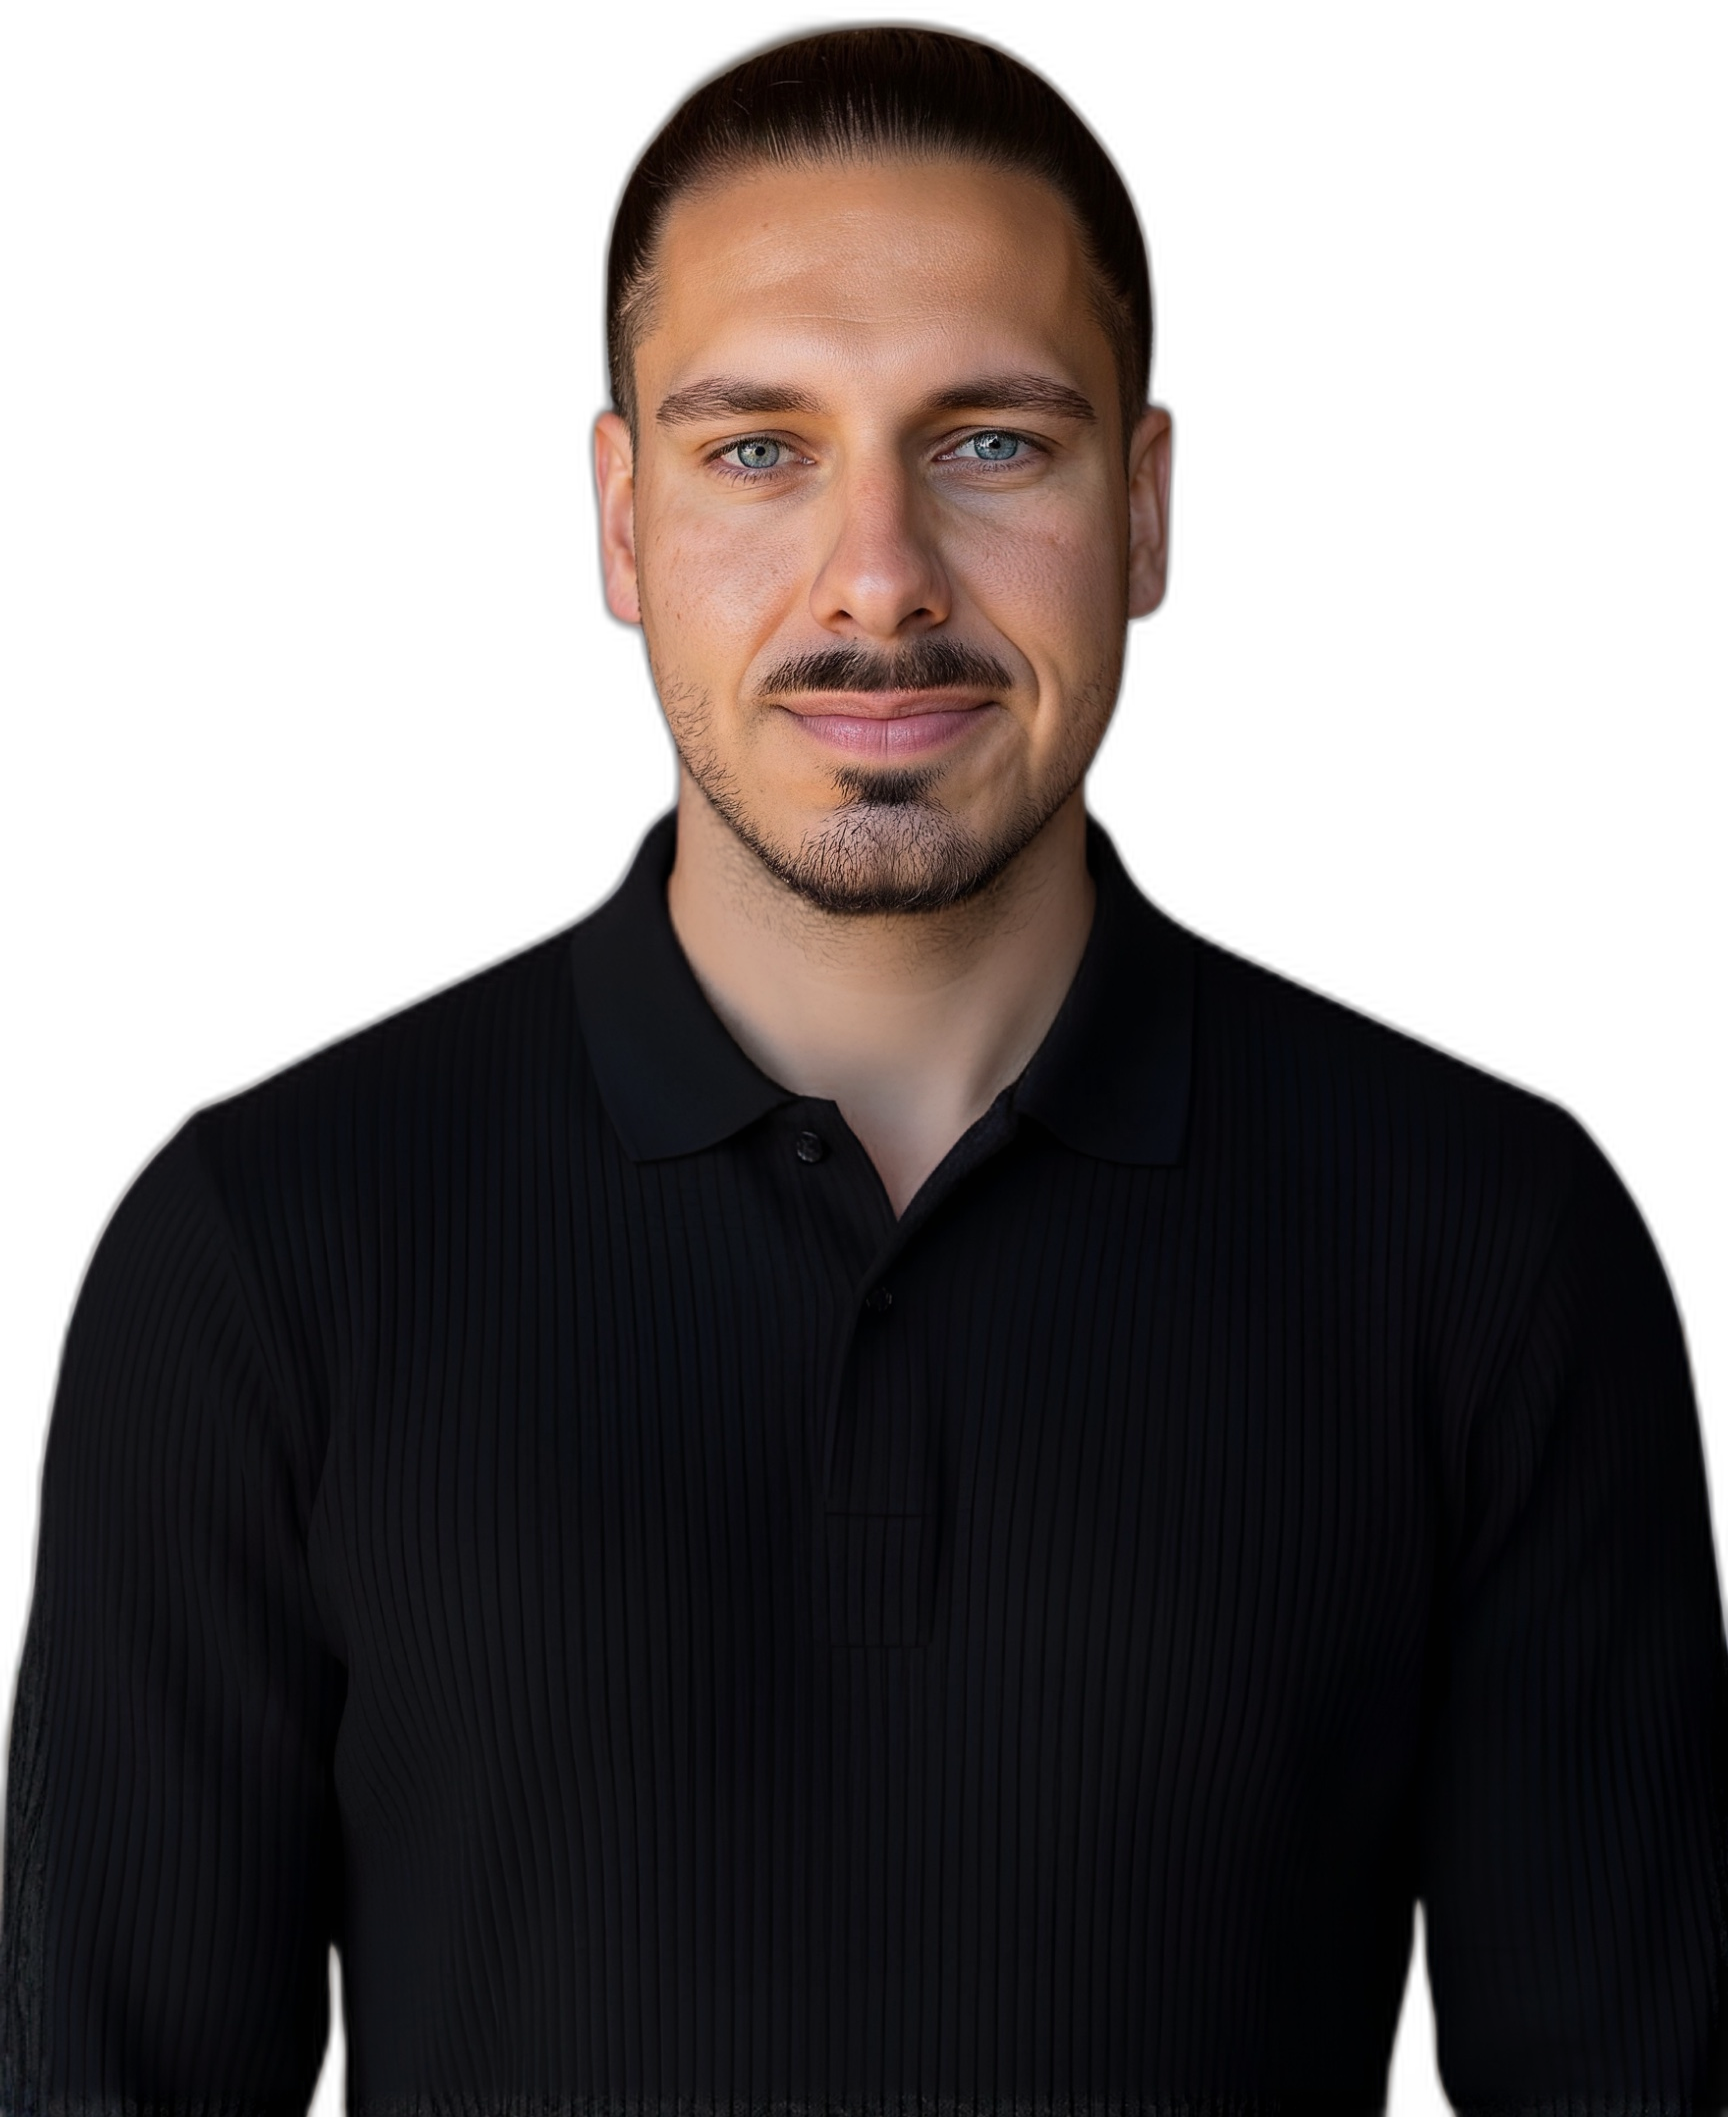
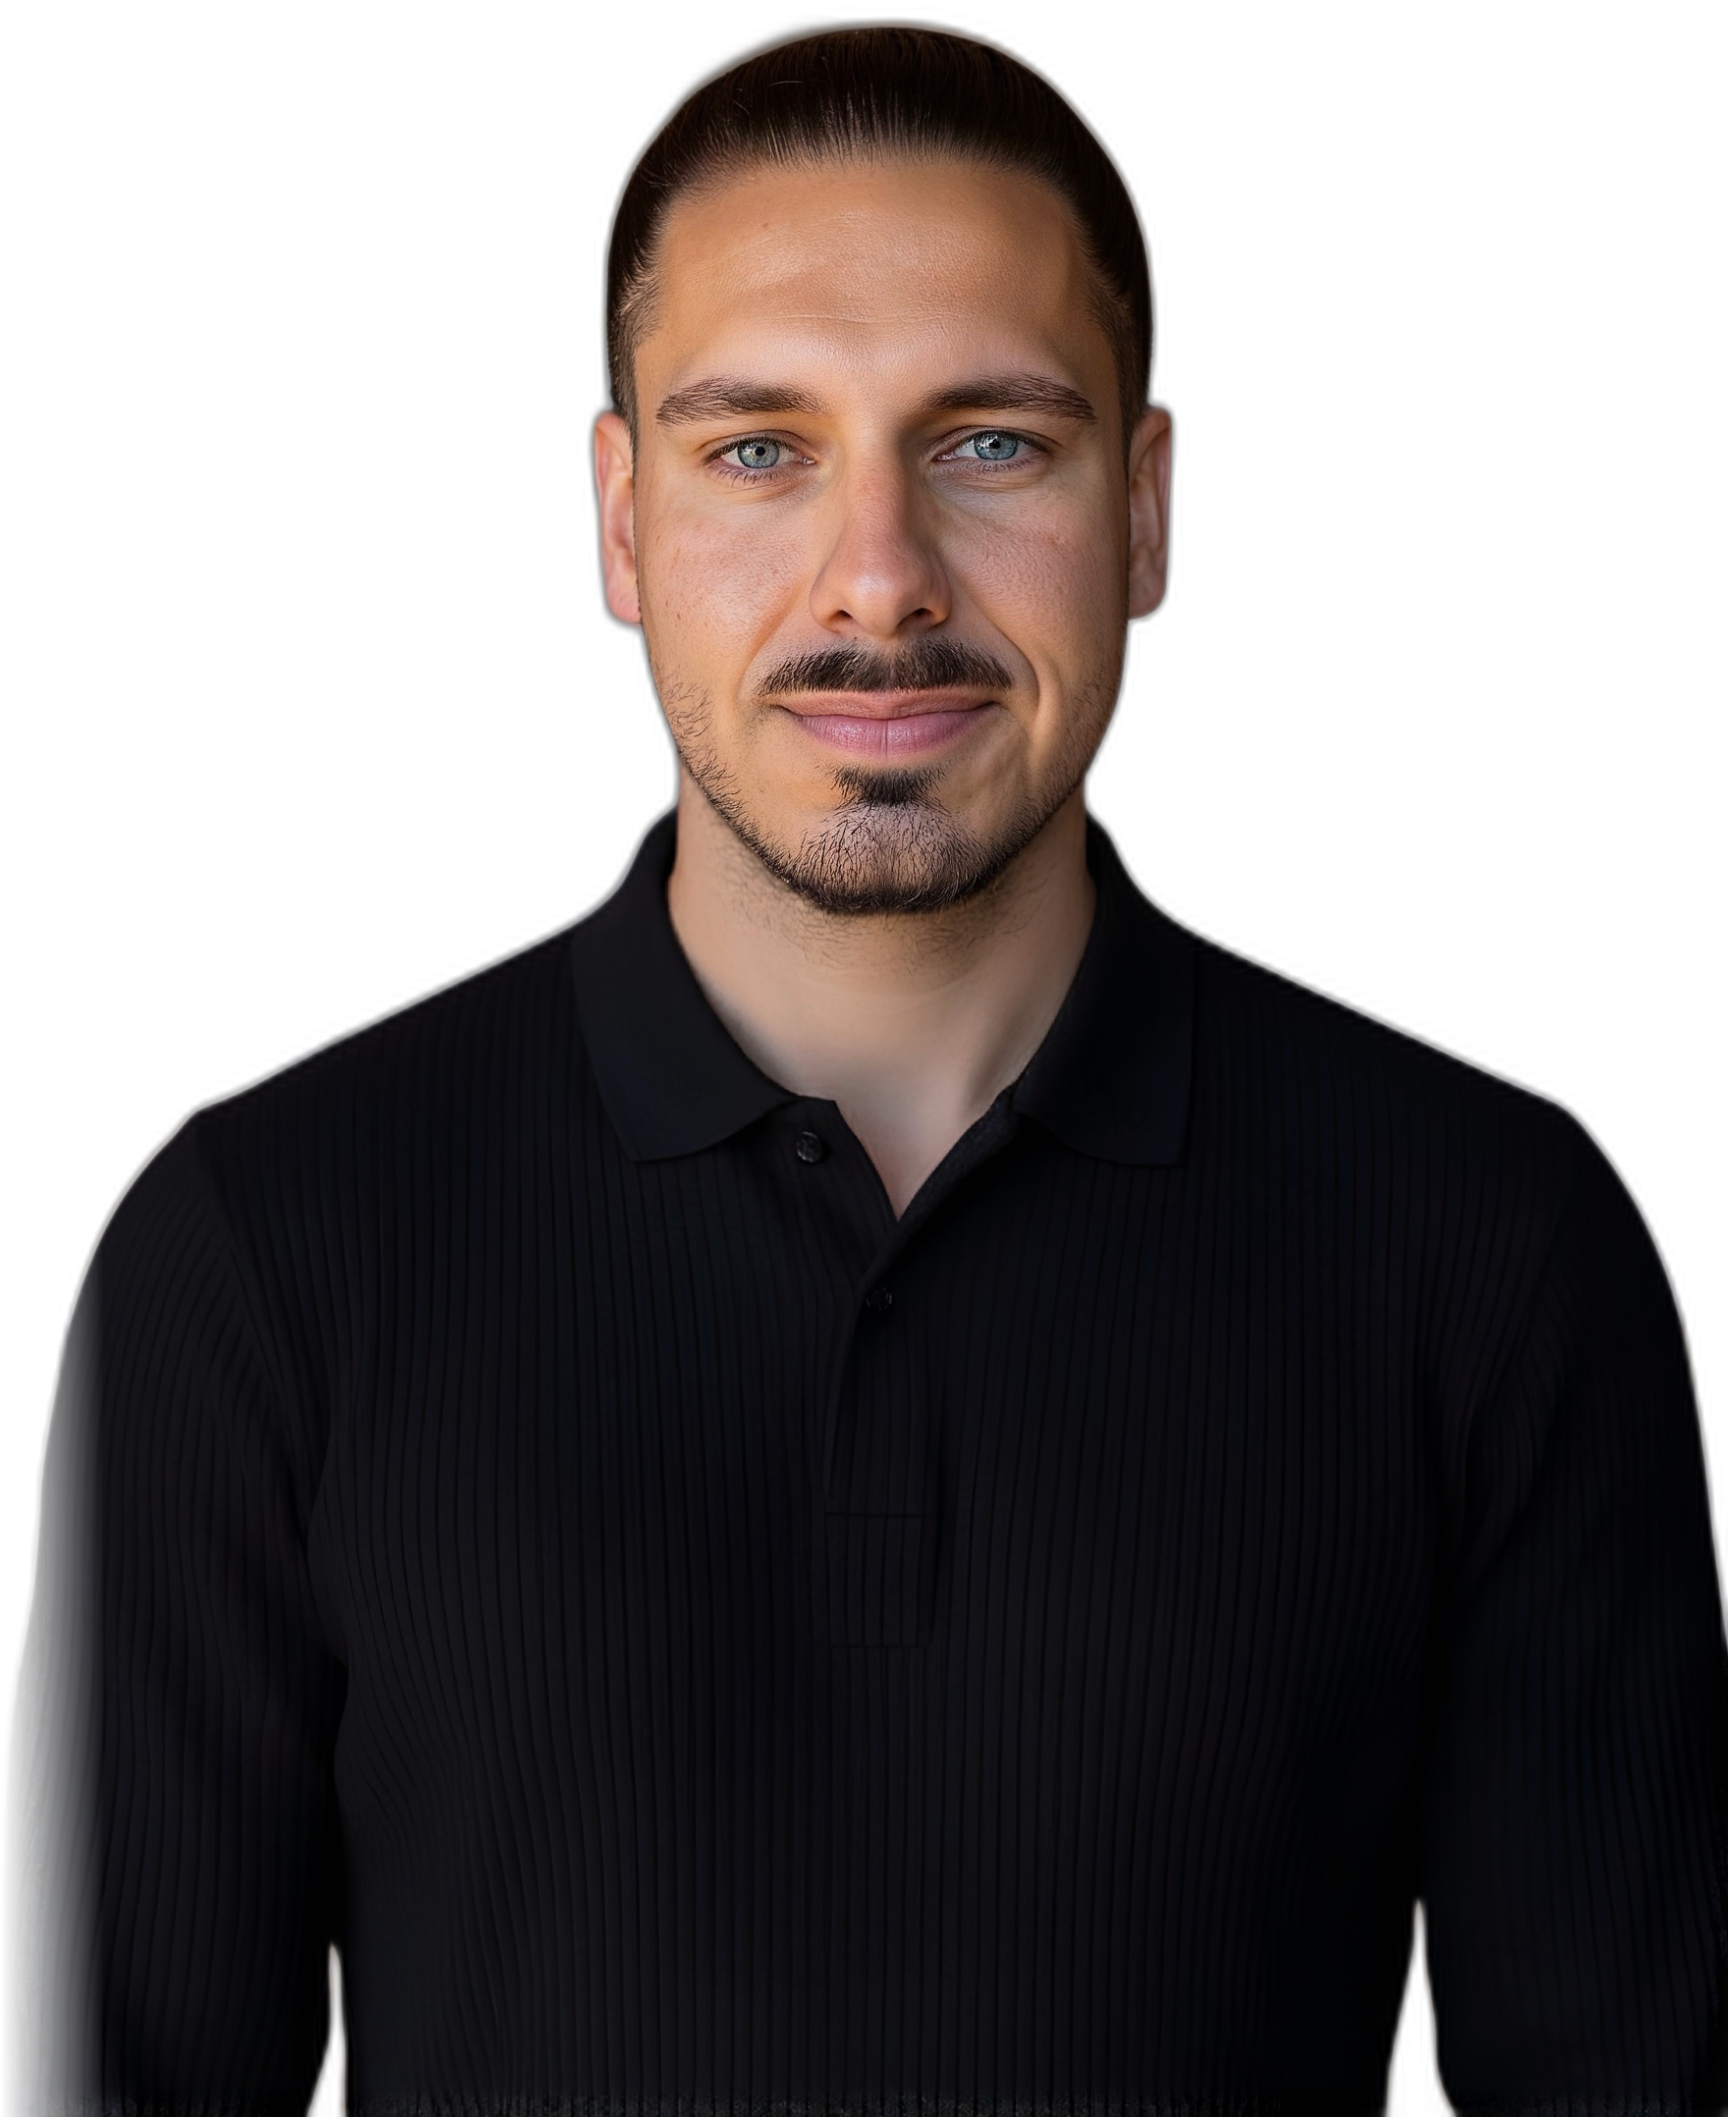
Fade Florian's cropped arm, swap Maschinenbau photo, fix Ansatz line break
- Feather the left edge of Florian's Hero cutout so his cropped arm
  fades out naturally instead of ending in a hard cut
- Replace the "Was bedeutet Werkskante" photo with a new shot showing
  a Betriebsanweisung being discussed on the shop floor, update alt text
- Allow SectionHeading's title to accept JSX so a manual line break
  can be forced; use it in the Ansatz heading so "Aber wir nehmen sie
  ernst." starts its own line

Changed region(s): [[0.0, 0.5923, 0.0625, 1.0]]

diff --git a/src/components/sections/WhatIsWerkskante.tsx b/src/components/sections/WhatIsWerkskante.tsx
@@ -16,7 +16,7 @@ export function WhatIsWerkskante() {
         <div className="relative min-h-[320px] overflow-hidden rounded-sm lg:col-span-5">
           <Image
             src={assetPath("/images/whatis-modern.jpg")}
-            alt="Team im modernen Maschinenbau bespricht Fertigungsdaten in der Produktionshalle"
+            alt="Zwei Kollegen besprechen eine Betriebsanweisung direkt in der Fertigungshalle"
             fill
             sizes="(min-width: 1024px) 40vw, 90vw"
             className="object-cover"

diff --git a/src/components/sections/Approach.tsx b/src/components/sections/Approach.tsx
@@ -24,7 +24,13 @@ export function Approach() {
       <Container className="relative flex flex-col gap-16">
         <SectionHeading
           eyebrow="Unser Ansatz"
-          title="Wir machen unsere Arbeit nicht größer als nötig. Aber wir nehmen sie ernst."
+          title={
+            <>
+              Wir machen unsere Arbeit nicht größer als nötig.
+              <br />
+              Aber wir nehmen sie ernst.
+            </>
+          }
           light
           wide
         />

diff --git a/src/components/ui/SectionHeading.tsx b/src/components/ui/SectionHeading.tsx
@@ -1,6 +1,8 @@
+import type { ReactNode } from "react";
+
 interface SectionHeadingProps {
   eyebrow?: string;
-  title: string;
+  title: ReactNode;
   description?: string;
   align?: "left" | "center";
   light?: boolean;
